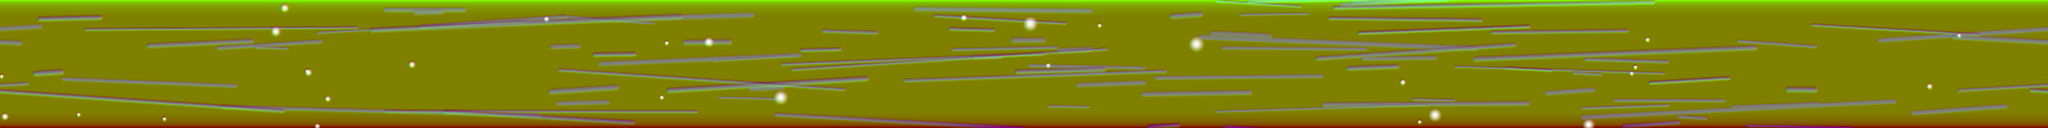
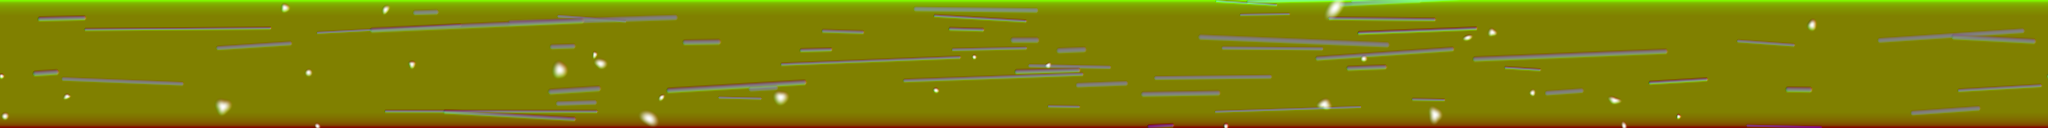
Make the coin read as struck metal: domed relief, strip lights, real damage
The relief was an extrusion, a level plate on a level field, and read as cut
from sheet whatever was done to its edges. The bake now domes every raised
region off the distance to its outline, so each stroke of the design swells
to a crown along its middle, and the rim with it. Dents wander around three
harmonics and stretch, since nothing that strikes a coin is round; a third of
the scratches are swipes of several parallel hairlines, the most
characteristic mark on a handled coin; the edge's grooves are fewer and
shorter.

The coin's reflector was one soft card and reflected as one soft blob, which
is what plastic does. It now carries two narrow strips, the way a studio hangs
strip lights, so every rounded edge picks them up as a line of light. Old gold
is not one yellow: the recesses run warmer and deeper, the field sees less of
the room than the high points, the sheen is mottled finer than the wear map,
and there is enough grain that no patch is a perfect mirror.

The domed edges find the spotlight's mirror angle somewhere along their
length and returned it at tens of times the frame; the coin's direct specular
now runs through a soft knee at six units, past where the tone curve is white
anyway, and the roughness floors at 0.25.

Claude-Session: https://claude.ai/code/session_01DY7GLHKDYbddaKqhU954QH

diff --git a/src/scene/coin-material.ts b/src/scene/coin-material.ts
@@ -61,9 +61,8 @@ export interface CoinSettings {
 
 export const DEFAULT_COIN: CoinSettings = {
   grime: 0.85,
-  // Below about 0.18 the rubbed patches stop reading as worn and start reading
-  // as wet.
-  polish: 0.2,
+  // The floor of the roughness; the shader will not go below 0.25 anyway.
+  polish: 0.25,
   wear: 0.8,
   scratches: 0.8,
   patina: 0.8,
@@ -174,7 +173,10 @@ float coinFbm(vec3 p) {
 // normal. Sampled in the coin's own space so it turns with the metal.
 float coinSwell(vec3 p) {
   return 0.004 * (coinFbm(p * 3.0 + vec3(4.0, 1.0, 7.0)) - 0.5)
-    + 0.0004 * (coinNoise(p * 40.0 + vec3(9.0, 3.0, 2.0)) - 0.5);
+    // Grain: enough that no patch of the metal is a perfect mirror. A perfect
+    // mirror reflects the room as the room, and reads as chrome plating.
+    + 0.0009 * (coinNoise(p * 38.0 + vec3(9.0, 3.0, 2.0)) - 0.5)
+    + 0.0004 * (coinNoise(p * 90.0 + vec3(1.0, 8.0, 5.0)) - 0.5);
 }
 
 // The surface map's four channels, decoded: slopes along the two sampling
@@ -249,6 +251,9 @@ vec3 coinU = normalize(mix(vCoinX, -vCoinTangent, coinSideness));
 vec3 coinV = normalize(mix(vCoinZ, vCoinAxis, coinSideness));
 
 vec3 coinBase = uCoinGold;
+// Old gold is not one yellow. The recesses run warmer and deeper — the toning
+// and the dirt that never quite leaves them — and the rubbed metal paler.
+coinBase *= mix(vec3(1.0), vec3(0.88, 0.72, 0.5), 0.55 * coinCavity);
 // Dull metal is a shade darker and greyer than the polished: its surface is
 // scattering rather than reflecting, and gold's colour is in its reflection.
 coinBase = mix(coinBase, coinBase * vec3(0.62, 0.66, 0.72), 0.45 * coinDull);
@@ -275,8 +280,15 @@ const COIN_FRAGMENT_ROUGHNESS = /* glsl */ `
 roughnessFactor = mix(uCoinPolish, 0.78, coinDull);
 roughnessFactor = mix(roughnessFactor, uCoinPolish, 0.45 * coinExposed * (1.0 - coinDull));
 roughnessFactor += 0.28 * coinScratch + 0.3 * coinPit + 0.14 * coinPatina;
+// And a mottle finer than the wear map, so the sheen never runs smooth for
+// long: a rubbed patch is rubbed unevenly.
+roughnessFactor += 0.09 * (coinFbm(coinP * 22.0 + vec3(7.0, 5.0, 3.0)) - 0.5);
 roughnessFactor = mix(roughnessFactor, 0.85, coinGrime);
-roughnessFactor = clamp(roughnessFactor, 0.05, 0.95);
+// Never a true mirror. Below about 0.25 the domed edges of the relief, which
+// face every direction, find the exact mirror angle of the spotlight somewhere
+// along their length and return it at hundreds of times the rest of the frame;
+// the bloom pass then spreads that over the whole tray and washes it pale.
+roughnessFactor = clamp(roughnessFactor, 0.25, 0.95);
 `;
 
 const COIN_FRAGMENT_METALNESS = /* glsl */ `
@@ -293,11 +305,27 @@ normal = normalize(normal - coinU * coinSlopeU - coinV * coinSlopeV);
 `;
 
 /**
+ * Runs after lights_fragment_end. The spot and key lights are small and bright,
+ * and a lobe as tight as polished gold's returns them at tens of times the
+ * brightness of anything else in the frame from the domed edges of the relief,
+ * which face every direction and so find the mirror angle somewhere along
+ * their length. The tone curve renders anything past a few units as white
+ * regardless, so a soft knee there costs the coin nothing you can see; without
+ * it, the bloom pass spread those glints over the whole tray and washed the felt
+ * pale. The environment's strips are not touched: those are the highlights that
+ * say metal, and they are never this hot.
+ */
+const COIN_FRAGMENT_LIGHTS = /* glsl */ `
+reflectedLight.directSpecular = reflectedLight.directSpecular / (1.0 + reflectedLight.directSpecular / 6.0);
+`;
+
+/**
  * Runs after aomap_fragment. The foot of a wall sees less of the room than the
  * open field does, and for a metal the room is nearly all of its light.
  */
 const COIN_FRAGMENT_AO = /* glsl */ `
-float coinOcclusion = 1.0 - 0.6 * coinRecessShade;
+// And the whole field sees less of the room than the high points do.
+float coinOcclusion = (1.0 - 0.6 * coinRecessShade) * (1.0 - 0.25 * coinCavity);
 reflectedLight.indirectDiffuse *= coinOcclusion;
 reflectedLight.indirectSpecular *= coinOcclusion;
 `;
@@ -327,7 +355,7 @@ export function createCoinMaterial(settings?: Partial<CoinSettings>, halfThickne
     uCoinPits: { value: coin.pits },
     // Linear, since it is written straight into the shader: gold's reflectance is
     // about this, and it is the colour the metal actually is rather than a tint.
-    uCoinGold: { value: new THREE.Color(1.0, 0.71, 0.29) },
+    uCoinGold: { value: new THREE.Color(1.0, 0.76, 0.34) },
     uCoinGrimeColor: { value: new THREE.Color(0.05, 0.035, 0.02) },
     uCoinPatinaColor: { value: new THREE.Color(0.34, 0.16, 0.06) },
   };
@@ -340,7 +368,7 @@ export function createCoinMaterial(settings?: Partial<CoinSettings>, halfThickne
     // it (see createEnvironment). Measured in the probe: at 0.8 the relief was
     // already past the tone curve's shoulder and reading as pale cream, at 0.5
     // it is gold.
-    envMapIntensity: 0.55,
+    envMapIntensity: 0.5,
   });
 
   material.onBeforeCompile = (shader) => {
@@ -354,6 +382,7 @@ export function createCoinMaterial(settings?: Partial<CoinSettings>, halfThickne
       .replace('#include <roughnessmap_fragment>', `#include <roughnessmap_fragment>\n${COIN_FRAGMENT_ROUGHNESS}`)
       .replace('#include <metalnessmap_fragment>', `#include <metalnessmap_fragment>\n${COIN_FRAGMENT_METALNESS}`)
       .replace('#include <normal_fragment_maps>', `#include <normal_fragment_maps>\n${COIN_FRAGMENT_NORMAL}`)
+      .replace('#include <lights_fragment_end>', `#include <lights_fragment_end>\n${COIN_FRAGMENT_LIGHTS}`)
       .replace('#include <aomap_fragment>', `#include <aomap_fragment>\n${COIN_FRAGMENT_AO}`);
   };
   // A key of its own, so three does not hand this material a program cached for

diff --git a/src/scene/environment.ts b/src/scene/environment.ts
@@ -66,9 +66,22 @@ function buildEnvironmentScene(reflector = false): THREE.Scene {
   // one big soft source where the flat faces look, brighter toward the top, so
   // the field carries a sweep of light and every edge of the relief turns
   // through it. The dice keep the plain room.
+  //
+  // Not one card, though. A single broad card reflected as one soft blob, and
+  // metal under one soft blob looks like plastic: what says metal is a crisp
+  // highlight with an edge to it, sliding over every curve. So the card is
+  // dimmer and carries two narrow bright strips, the way a product studio
+  // hangs strip lights, and every rounded edge of the relief picks them up as
+  // a line of light.
   if (reflector) {
-    add(panel(0xfff1dc, 2.6), [0, 11, -7.5], [18, 0.2, 9], [-0.55, 0, 0]);
-    add(panel(0xffe2b8, 0.9), [0, 5.5, -12], [18, 5, 0.2], [-0.15, 0, 0]);
+    //
+    // The strips are bright next to the card, not bright outright: at seven
+    // they mirrored in the coin at four times anything else in the frame and the
+    // bloom pass washed the whole tray pale.
+    add(panel(0xffe9cc, 0.9), [0, 11, -7.5], [18, 0.2, 9], [-0.55, 0, 0]);
+    add(panel(0xfff6e6, 3.2), [0, 12.5, -5.5], [16, 0.2, 0.9], [-0.5, 0, 0]);
+    add(panel(0xfff0d6, 2.0), [0, 8.5, -11], [16, 0.2, 0.7], [-0.75, 0, 0]);
+    add(panel(0xffe2b8, 0.6), [0, 5.5, -12], [18, 5, 0.2], [-0.15, 0, 0]);
   }
 
   return scene;

diff --git a/README.md b/README.md
@@ -460,18 +460,27 @@ to it since it was struck, and all of that follows the shape:
 - Over that, toning: the reddish-brown film old gold takes on, in soft patches,
   thickest in the sheltered field.
 - And the surface itself, from a normal map baked by the asset build
-  (`tools/coin-surface.mjs`). Every edge of the relief is rounded off, on the
-  raised side of every outline, by an elliptical profile off the distance to the
-  outline — the single thing that most says "old", since a freshly struck coin
-  has crisp edges and a coin that has spent a lifetime in pockets has none — and
-  the foot of every wall gets a small fillet. The rim's outer edge and the
-  coin's edge are rounded the same way, which is also what the physics does to
+  (`tools/coin-surface.mjs`). The model is an extrusion — a level plate on a
+  level field, with vertical walls — and an extrusion reads as cut out of sheet
+  whatever is done to its colour. Struck relief is convex: the die's engraving
+  swells from its edges to a crown along the middle of every stroke. So the map
+  domes every raised region off the distance to its outline, rounds every edge
+  off on the raised side by an elliptical profile — a freshly struck coin has
+  crisp edges and a coin that has spent a lifetime in pockets has none — and
+  gives the foot of every wall a small fillet. The rim is domed and rounded the
+  same way, and so is the coin's edge, which is also what the physics does to
   the rim. Over that: a couple of hundred shallow scratches of every length and
   direction, shallow because a hairline is seen by its highlight rather than its
-  depth, dents, nicks in the rim, pinpoint pores; and, computed rather than
-  baked, the strike's slow swell and the metal's fine grain. The scratch and
-  dent masks ride in the map's spare channels and roughen and darken their
-  floors.
+  depth, a third of them swipes of several parallel hairlines a texel or two
+  apart, which is the most characteristic mark on a handled coin; dents whose
+  outlines wander around three harmonics and stretch, since nothing that strikes
+  a coin is round; nicks in the rim; pinpoint pores; and, computed rather than
+  baked, the strike's slow swell and enough grain that no patch of the metal is
+  a perfect mirror, because a perfect mirror reflects the room as the room and
+  reads as chrome plating. The scratch and dent masks ride in the map's spare
+  channels and roughen and darken their floors.
+- Old gold is not one yellow: the recesses run warmer and deeper, the rubbed
+  metal paler, and the whole field sees less of the room than the high points.
 
 The map stores slopes rather than normals: how much the surface rises per unit
 along each of the two directions it is sampled by. A slope is the same number
@@ -521,10 +530,24 @@ this room is the near-black shell. The rougher field gathered a little of the ke
 softbox from the side; the polished relief mirrored the dark exactly. Resin never
 minded, because most of what you see of a die is its own colour. So the coin has
 its own copy of the room with a reflector in it — a warm card high up behind the
-tray, brighter toward the top, which is exactly what a product photograph of a
-coin hangs behind it — and the field is toned well below the relief on top of
-that. The same effect is why pits cannot simply be rough: here a rough patch of
-gold is a bright one, so a pit is dark metal instead.
+tray, which is exactly what a product photograph of a coin hangs behind it — and
+the field is toned well below the relief on top of that. The card alone reflected
+as one soft blob, and metal under one soft blob looks like plastic: what says
+metal is a crisp highlight with an edge to it, sliding over every curve. So the
+card is dim and carries two narrow bright strips, the way a studio hangs strip
+lights, and every domed and rounded edge of the relief picks them up as a line
+of light. The same effect is why pits cannot simply be rough: here a rough patch
+of gold is a bright one, so a pit is dark metal instead.
+
+The domed edges brought one more thing with them. They face every direction, so
+somewhere along their length they find the exact mirror angle of the spotlight,
+and a lobe as tight as polished gold's returns it at tens of times the
+brightness of anything else in the frame: 388 pixels of the probe's coin sat
+above twenty units of radiance, where the bloom pass starts at about one. The
+coin's direct specular now runs through a soft knee at six units, which the tone
+curve was rendering as white anyway, and the count is zero. The environment's
+strips are left alone; they are the highlights that say metal, and they never
+get that hot.
 
 And the reflector then blew the relief out to cream. Gold is only gold below the
 tone curve's shoulder: its reflectance is 1.0, 0.71, 0.29, and past the shoulder
